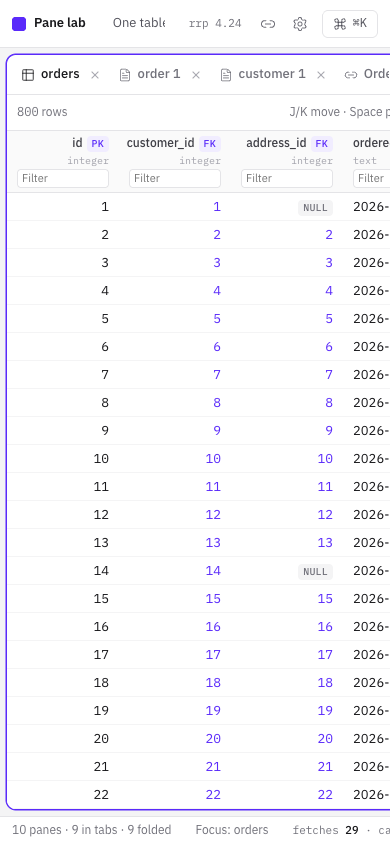
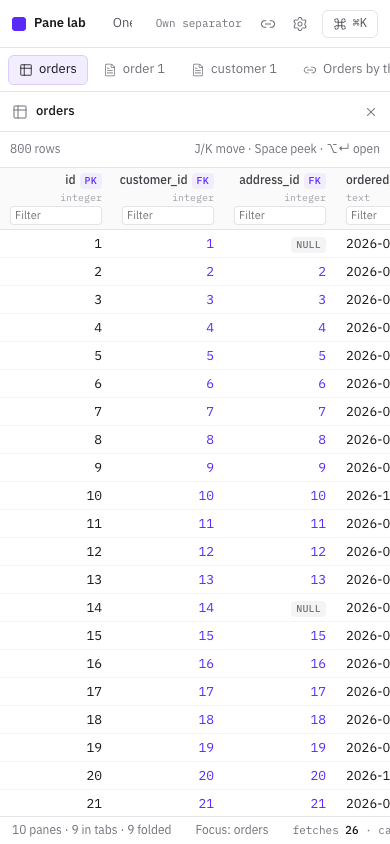
Add findings and refreshed walkthrough screenshots

diff --git a/docs/FINDINGS.md b/docs/FINDINGS.md
@@ -1,0 +1,84 @@
+# Pane lab: findings
+
+> 17 Nov 2026, for the founder.
+>
+> **Final state:** 218 unit tests and 44 browser walkthrough checks pass (Chrome), and type checks are clean.
+>
+> **How it was built:** Codex Sol (layout core), Codex Terra (data), Claude Opus (UI, the drag rewrite, the launcher and merge) and Claude Sonnet (pane kinds, the walkthrough, the phone single view). The coordinator integrated it and wrote this.
+>
+> Detail and numbers are in `DECISIONS.md`; screenshots are in `screens/`.
+
+## Headline
+**The architecture holds:**
+1. We own the model.
+2. We own the drag mechanics.
+3. A thin accessibility layer sits on top.
+4. A shared cache holds the data.
+
+Every behaviour in the spec works in the browser. Two library assumptions turned out wrong, and that is the most useful result.
+
+## What works
+- **Open beside** replaces the linked pane of the same kind. Focus stays in the list, so J/K keep working. (`screens/01-open-beside-replaces.png`)
+- **Peek:** Space, J/K follow, Pin beside, Open full, Esc, and `?peek=` in the URL. (`02-peek.png`)
+- **Split** opens a "New pane" launcher (search, recent, tables, new query). Opening something already open focuses it instead of duplicating it (queries excepted). (`15-launcher.png`)
+- **Merge without dragging:** ⌥⌘T "Add to tabs of…" and ⌥⇧⌘T "Move out of tabs". A "+" on every tab strip. (`16-merge-chooser.png`, `17-tab-plus.png`)
+- **Drag to rearrange:** by the header grip, edge zones place beside, the centre swaps or adds a tab, and Esc cancels. The drag label says what will happen ("Swap with orders"). (`03`–`05`)
+- **Resize:** 1:1 with the pointer, clamped at minimums, centre snap at 10/16px, double-click reset, the APG keyboard (arrows, Home/End, Enter collapses), and one save after release. (`06`)
+- **Maximise and restore** (button, double-click header, ⇧⌘↵, Esc); **minimise** to a rail or a 40px header. (`07`, `08`)
+- **Focus:** F6, ⌥1–9, directional by most-recently-used with no wrap; it also works while zoomed.
+- **Close:** focus returns where it came from; a Sonner "Pane closed · Undo" toast; ⌘Z restores. (`09`)
+- **⌘K** lists every command by stable ID. (`10`)
+- **The URL:** an 8-pane layout round-trips through a link exactly. Back and Forward step through structural changes only. A broken link falls back to the preset, and a toast explains.
+- **Folding:** never squeezes, and folds one pane at a time:
+
+  | Width | 1920 | 1600 | 1440 | 1280 | 1024 | 390 |
+  |---|---|---|---|---|---|---|
+  | Panes shown (10-pane stress) | 4 | 3 | 2 | 2 | 2 | 1 |
+
+  It unfolds the same way. Below a pane's minimum, a phone **single view** shows one full-width pane with a switcher. (`14-*`, `15-single-view-390.png`)
+- **Accessibility:**
+  - every pane is a named region;
+  - dividers are `role="separator"` with value, min, max and controls;
+  - layout changes are announced politely.
+
+## What the lab taught us
+1. **Off-the-shelf resize libraries fight a model-driven layout.**
+   - **react-resizable-panels** runs its own document-wide drag. It overwrote our ARIA values, dropped drags when sizes changed, and on the stress layout its divider **did not move at all**. It was dropped.
+   - **Ark UI Splitter** behaved better and accepts our ARIA, but it adds nothing our own separator doesn't already do. It remains switchable, for ARIA only.
+   - **Conclusion:** build our own divider (about 150 lines), following the W3C window splitter pattern, as Rex and herdr both do.
+2. **"Laggy and off" was architecture, not tuning.** Each pointer move re-rendered the whole workspace two or three times and wrote the URL, and the line trailed the pointer by up to 88px. Moving the preview to direct DOM writes, with one commit on release (Rex's approach), fixed it:
+
+   | | Before | After |
+   |---|---|---|
+   | Handler per move | up to 10ms | 0.1ms |
+   | Re-renders during a drag | 195–302 | 0 |
+   | Pointer lag | up to 88px | 0 |
+
+   **Rule for the package:** never route a 60fps interaction through app state.
+3. **The shared cache works, with one hard limit.**
+   - Editing a customer updates every pane showing it, and unaffected panes do not refetch.
+   - A pane in a background tab does not fetch until shown.
+   - **But a query result can only be refreshed after an edit if it includes the rows' primary keys.** `SELECT id, name` refreshes; `SELECT name` stays stale. In real products, every query that feeds a pane must carry entity IDs, or be marked "may be stale". That is a rule for the data contract, not a bug.
+4. **The data layer must never change rows in place.** QA caught an edited row that didn't show in other panes, and another that jumped to the bottom of tables. Both were fixed with immutable rows (unchanged rows keep their identity, so their panes don't redraw) and primary-key default ordering.
+5. **Folding needed real care.** The first version collapsed all 10 panes into one tab group even at 1920px. One-pane-at-a-time folding, which protects the focused pane and its source, is what makes "many arbitrary panes" usable.
+
+## Centre drop: swap vs tab
+Both are in Settings → Centre drop (default **swap**).
+- **Swap** keeps the same number of panes and trades places: predictable, and nothing disappears.
+- **Tab** hides the dragged pane inside the target (3 panes become 2): powerful for grouping, but surprising when it was not wanted.
+
+Now that the drag label says "Swap with orders" or "Add as tab to orders", either is safe. **This is yours to judge by feel.** The QA agent only drove it by script and leaned towards tab. The keyboard commands make merging possible without any drag either way.
+
+## Known gaps
+- After the window widens back out of single view, the focused pane is the one shown in its fold, so the visible set can differ slightly from before. The spec says it should restore exactly.
+- The top bar clips its preset labels at 390px.
+- 200% browser zoom has not been tested by hand.
+- The chart reads the first 200 rows of a result.
+- Table filters are exact-match only.
+
+## Recommendation for the shared package
+1. **`@sixface/layout` core:** keep this lab's model, fitting and codec (src/layout-core), seeded together with Data Studio's `packages/layout`.
+2. **Our own divider and drag,** with no resize library in the drag path.
+3. **The pane contract:** kind, minimums and heavy, plus `load(ref)` and `prefetch(ref)`.
+4. **A shared TanStack Query cache** with entity invalidation and immutable rows. Every pane query carries entity IDs.
+5. **Next:** the founder tries swap vs tab and the overall feel. Then decide where the package lives, and start one app and one screen at a time.
